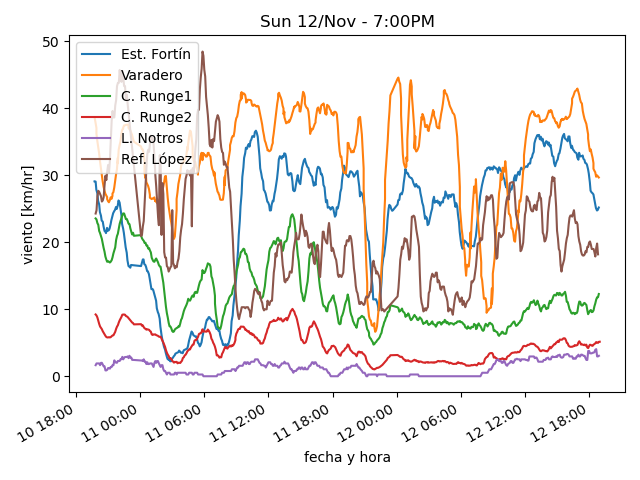
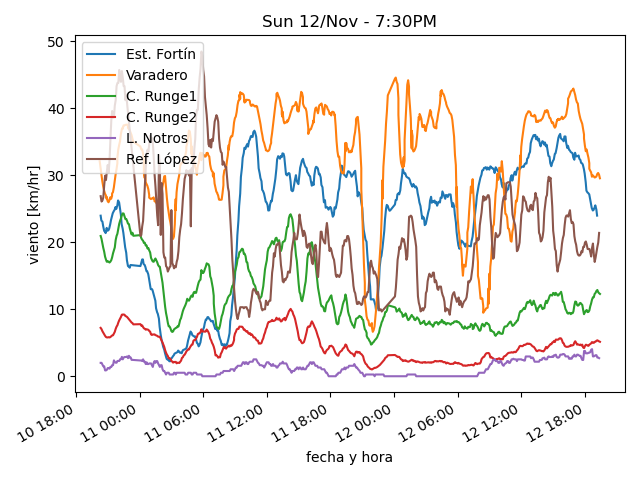
actualiza datos

diff --git a/estaciones/estacion3.html b/estaciones/estacion3.html
@@ -18,32 +18,32 @@
     </tr>
     <tr>
      <td class="stats_data">
-      6:54PM
+      7:24PM
      </td>
     </tr>
     <tr>
      <td class="stats_data">
-      6.7⁰C
+      5.8⁰C
      </td>
     </tr>
     <tr>
      <td class="stats_data">
-      0.0⁰C
+      0.3⁰C
      </td>
     </tr>
     <tr>
      <td class="stats_data">
-      62.6%
+      67.5%
      </td>
     </tr>
     <tr>
      <td class="stats_data">
-      1008.43hPa
+      1008.53hPa
      </td>
     </tr>
     <tr>
      <td class="stats_data">
-      10.5/14.6 km/hr NW
+      8.9/12.4 km/hr WNW
      </td>
     </tr>
     <tr>
@@ -53,12 +53,12 @@
     </tr>
     <tr>
      <td class="stats_data">
-      2.0
+      1.0
      </td>
     </tr>
     <tr>
      <td class="stats_data">
-      228.1 W/m²
+      116.2 W/m²
      </td>
     </tr>
    </tbody>

diff --git a/estaciones/estacion2.html b/estaciones/estacion2.html
@@ -18,7 +18,7 @@
     </tr>
     <tr>
      <td class="stats_data">
-      6:54PM
+      7:24PM
      </td>
     </tr>
     <tr>
@@ -28,22 +28,22 @@
     </tr>
     <tr>
      <td class="stats_data">
-      1.9⁰C
+      1.5⁰C
      </td>
     </tr>
     <tr>
      <td class="stats_data">
-      70.6%
+      69.1%
      </td>
     </tr>
     <tr>
      <td class="stats_data">
-      1023.23hPa
+      1023.13hPa
      </td>
     </tr>
     <tr>
      <td class="stats_data">
-      25.9/31.4 km/hr NW
+      20.9/25.9 km/hr NW
      </td>
     </tr>
     <tr>
@@ -53,12 +53,12 @@
     </tr>
     <tr>
      <td class="stats_data">
-      0.0
+      1.0
      </td>
     </tr>
     <tr>
      <td class="stats_data">
-      80.3 W/m²
+      106.7 W/m²
      </td>
     </tr>
    </tbody>

diff --git a/estaciones/estacion1.html b/estaciones/estacion1.html
@@ -18,22 +18,22 @@
     </tr>
     <tr>
      <td class="stats_data">
-      6:54PM
+      7:08PM
      </td>
     </tr>
     <tr>
      <td class="stats_data">
-      7.8⁰C
+      7.7⁰C
      </td>
     </tr>
     <tr>
      <td class="stats_data">
-      -1.7⁰C
+      -1.4⁰C
      </td>
     </tr>
     <tr>
      <td class="stats_data">
-      51.0%
+      52.5%
      </td>
     </tr>
     <tr>
@@ -43,7 +43,7 @@
     </tr>
     <tr>
      <td class="stats_data">
-      15.6/25.2 km/hr WSW
+      11.3/17.7 km/hr W
      </td>
     </tr>
     <tr>
@@ -53,12 +53,12 @@
     </tr>
     <tr>
      <td class="stats_data">
-      0.6
+      0.0
      </td>
     </tr>
     <tr>
      <td class="stats_data">
-      255.0 W/m²
+      163.0 W/m²
      </td>
     </tr>
    </tbody>

diff --git a/estaciones/estacion4.html b/estaciones/estacion4.html
@@ -18,22 +18,22 @@
     </tr>
     <tr>
      <td class="stats_data">
-      6:59PM
+      7:24PM
      </td>
     </tr>
     <tr>
      <td class="stats_data">
-      7.3⁰C
+      5.8⁰C
      </td>
     </tr>
     <tr>
      <td class="stats_data">
-      -0.7⁰C
+      -0.5⁰C
      </td>
     </tr>
     <tr>
      <td class="stats_data">
-      56.7%
+      63.8%
      </td>
     </tr>
     <tr>
@@ -43,7 +43,7 @@
     </tr>
     <tr>
      <td class="stats_data">
-      3.2/5.0 km/hr WSW
+      3.4/5.5 km/hr SSW
      </td>
     </tr>
     <tr>
@@ -53,12 +53,12 @@
     </tr>
     <tr>
      <td class="stats_data">
-      1.0
+      0.0
      </td>
     </tr>
     <tr>
      <td class="stats_data">
-      115.0 W/m²
+      34.1 W/m²
      </td>
     </tr>
    </tbody>

diff --git a/estaciones/estacion6.html b/estaciones/estacion6.html
@@ -18,17 +18,17 @@
     </tr>
     <tr>
      <td class="stats_data">
-      6:50PM
+      7:20PM
      </td>
     </tr>
     <tr>
      <td class="stats_data">
-      -2.2⁰C
+      -2.3⁰C
      </td>
     </tr>
     <tr>
      <td class="stats_data">
-      -3.6⁰C
+      -3.7⁰C
      </td>
     </tr>
     <tr>
@@ -38,12 +38,12 @@
     </tr>
     <tr>
      <td class="stats_data">
-      1023.6hPa
+      1023.77hPa
      </td>
     </tr>
     <tr>
      <td class="stats_data">
-      6.4/12.9 km/hr WSW
+      12.9/32.2 km/hr WSW
      </td>
     </tr>
     <tr>
@@ -58,7 +58,7 @@
     </tr>
     <tr>
      <td class="stats_data">
-      896.0 W/m²
+      895.0 W/m²
      </td>
     </tr>
    </tbody>

diff --git a/estaciones/estacion5.html b/estaciones/estacion5.html
@@ -18,12 +18,12 @@
     </tr>
     <tr>
      <td class="stats_data">
-      6:55PM
+      7:20PM
      </td>
     </tr>
     <tr>
      <td class="stats_data">
-      5.4⁰C
+      5.1⁰C
      </td>
     </tr>
     <tr>
@@ -33,17 +33,17 @@
     </tr>
     <tr>
      <td class="stats_data">
-      68.0%
+      70.0%
      </td>
     </tr>
     <tr>
      <td class="stats_data">
-      1020.83hPa
+      1020.89hPa
      </td>
     </tr>
     <tr>
      <td class="stats_data">
-      0.0/3.5 km/hr N
+      0.0/2.6 km/hr N
      </td>
     </tr>
     <tr>
